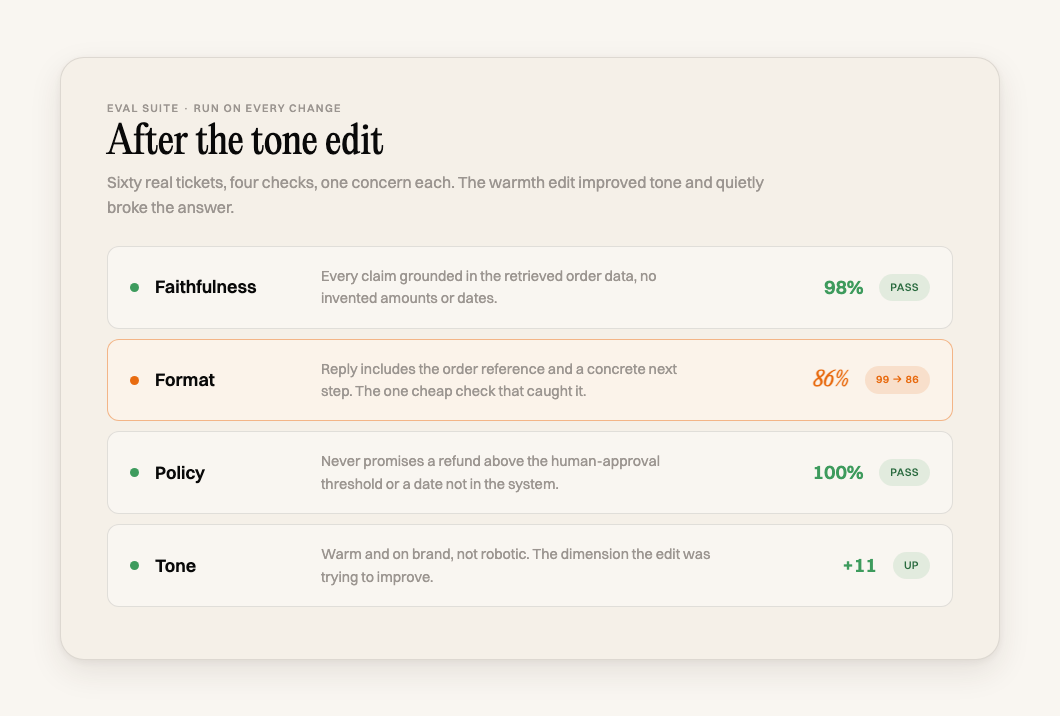
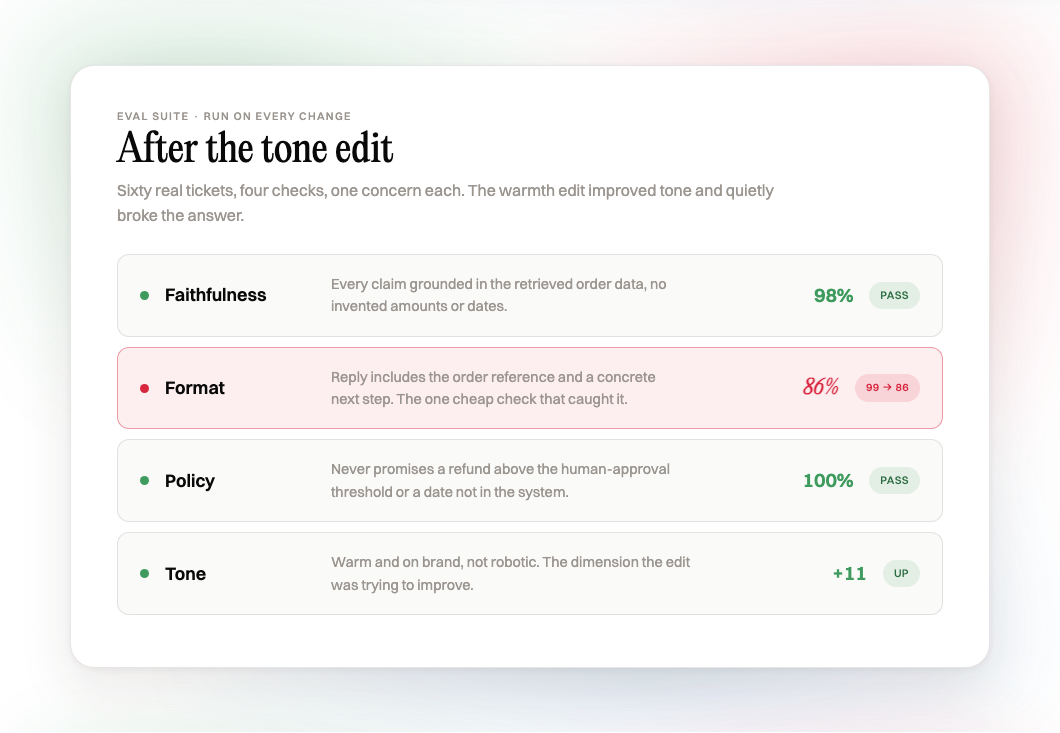
Archive screenshot-evalrun.png from content: Tone Fix evals article, nxtphase Articles variant visuals (white, red, blue, fog): screenshot-evalrun.png

diff --git a/projects/content/INDEX.md b/projects/content/INDEX.md
@@ -281,3 +281,4 @@
 | 2026-06-13 | images | [diagram-categories.png](images/diagram-categories.png) | Tone Fix Broke the Agent (evals, nxtphase-branded visuals, plugs From Vibe to Production): diagram-categories.png | /Users/marcokotrotsos/PERSONAL/Content/drafts/evals-are-the-engineering/diagram-categories.png |
 | 2026-06-13 | reports | [draft.html](reports/draft.html) | Tone Fix Broke the Agent (evals, nxtphase-branded visuals, plugs From Vibe to Production): draft.html | /Users/marcokotrotsos/PERSONAL/Content/drafts/evals-are-the-engineering/draft.html |
 | 2026-06-13 | images | [hero.png](images/hero.png) | Tone Fix evals article, nxtphase Articles variant visuals (white, red, blue, fog): hero.png | /Users/marcokotrotsos/PERSONAL/Content/drafts/evals-are-the-engineering/hero.png |
+| 2026-06-13 | images | [screenshot-evalrun.png](images/screenshot-evalrun.png) | Tone Fix evals article, nxtphase Articles variant visuals (white, red, blue, fog): screenshot-evalrun.png | /Users/marcokotrotsos/PERSONAL/Content/drafts/evals-are-the-engineering/screenshot-evalrun.png |

diff --git a/INDEX.md b/INDEX.md
@@ -540,3 +540,4 @@
 | 2026-06-13 | content | images | [diagram-categories.png](projects/content/images/diagram-categories.png) | Tone Fix Broke the Agent (evals, nxtphase-branded visuals, plugs From Vibe to Production): diagram-categories.png |
 | 2026-06-13 | content | reports | [draft.html](projects/content/reports/draft.html) | Tone Fix Broke the Agent (evals, nxtphase-branded visuals, plugs From Vibe to Production): draft.html |
 | 2026-06-13 | content | images | [hero.png](projects/content/images/hero.png) | Tone Fix evals article, nxtphase Articles variant visuals (white, red, blue, fog): hero.png |
+| 2026-06-13 | content | images | [screenshot-evalrun.png](projects/content/images/screenshot-evalrun.png) | Tone Fix evals article, nxtphase Articles variant visuals (white, red, blue, fog): screenshot-evalrun.png |
